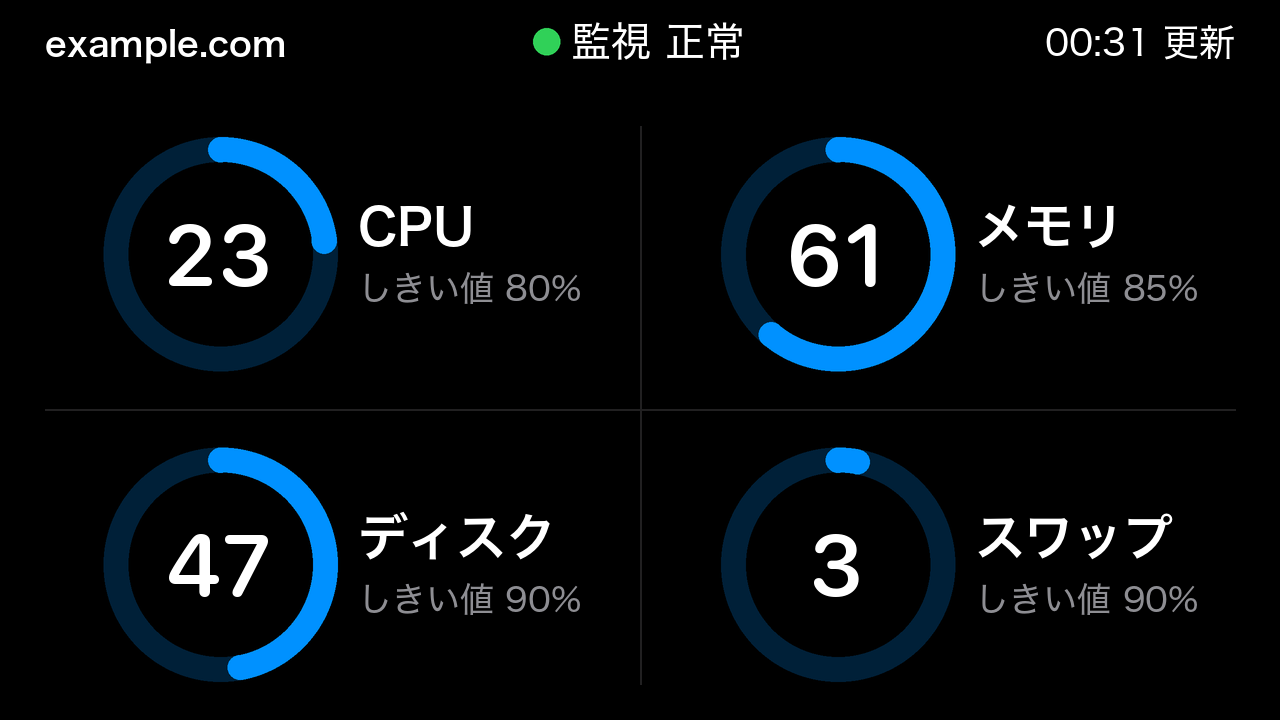
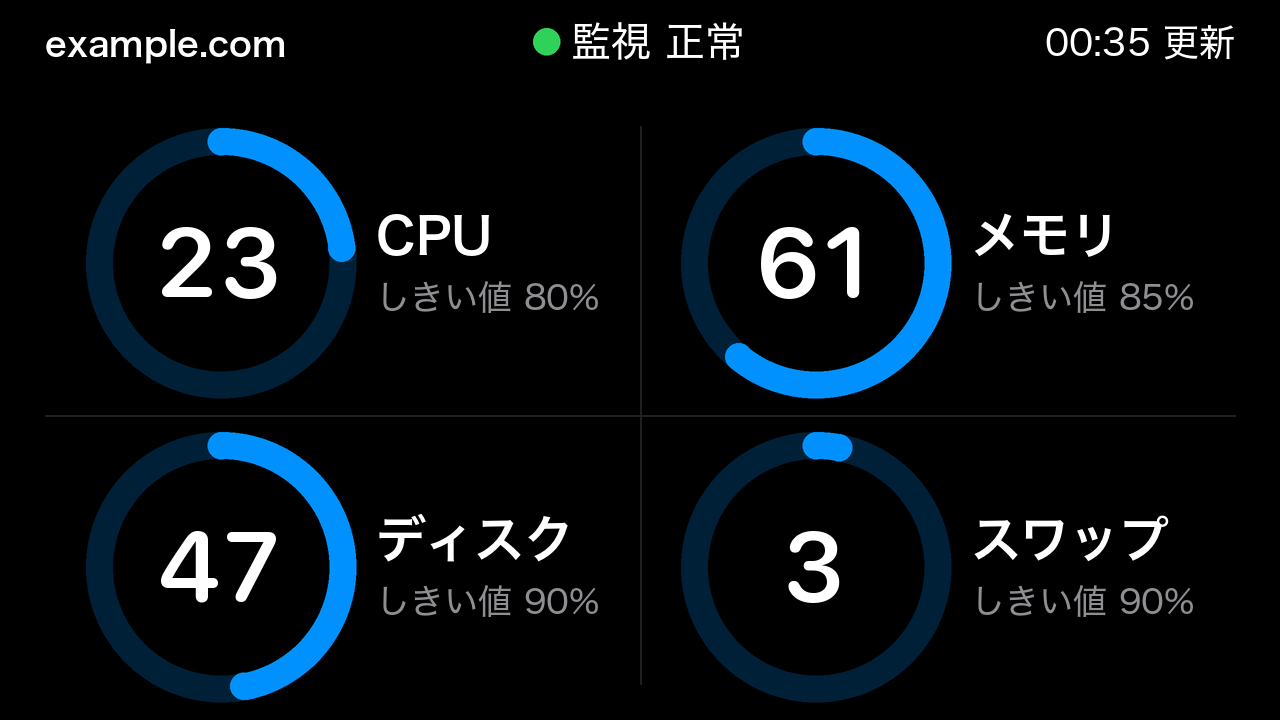
feat(monitor): 5.2 インチのリングを半径 52→60（外径 234→270 px）にし、数字も大きくする
縦に収まる最大の大きさ（上の段は異常の 2 行の帯の下、下の段は画面の内側）。上下の段と横の区切り線を少し動かし、
リングと文字のまとまりを左右の区画の中央に置き直した（ユーザーが見本の案 B を選んだ。docs/handover.md §4-25）。

Changed region(s): [[0.0312, 0.1528, 0.9688, 0.9778], [0.6875, 0.7028, 0.9375, 0.8556], [0.875, 0.0306, 0.9062, 0.0917]]

diff --git a/claude_usage_display/monitor_screen.py b/claude_usage_display/monitor_screen.py
@@ -96,14 +96,23 @@ PORTRAIT = _Layout(
 
 # 5.2 インチ（1280×720）。横置きの 2×2 を、高さの比 2.25 倍で描く（2026-11-02 にユーザーが見本で選んだ「案 1」を、
 # 2026-11-03 に入れた。docs/handover.md §4-23・§4-25）。3.5 インチの寸法での横幅は 1280 ÷ 2.25 ≒ 569 になるので、
-# 区切り線を中央に置き、区画の中身を 20 右へ寄せて左右の余白をそろえる。帯は横置きと同じ幅 248 で中央に置く
+# 区切り線を中央に置く。帯は横置きと同じ幅 248 で中央に置く。
+# リングは、実機を見たユーザーの指示で半径 52→60（外径 234→270 px）、数字を 38→44 にした（同日、見本の案 B）。
+# 縦に収まる最大の大きさで、上の段のリングの上端 57 は異常の 2 行の帯の下端（BIG_BOX、54）の下、下の段の下端 312 は
+# 画面（320）の内側。そのため上下の段を 48・183 に、横の区切り線を 184.5 に動かした。リングと文字のまとまり
+# （リング 120・間 9・15 ピクセルの「しきい値 80%」99）は、左右の区画の中央に置く
 _K_LARGE = 720 / 320
 _W_LARGE = 1280 / _K_LARGE
 _MID_LARGE = 20 + (_W_LARGE - 40) / 2
+_RING_LARGE = 60
+_TEXT_LARGE = 2 * _RING_LARGE + 9  # 名前としきい値の左端（区画の左から）
+_LEFT_LARGE = ((_MID_LARGE - 20) - (_TEXT_LARGE + 99)) / 2  # 区画の中で、まとまりを中央に置くための左の余白
 LANDSCAPE_LARGE = replace(
     LANDSCAPE, size=(_W_LARGE, 320), k=_K_LARGE, pill=(round(_W_LARGE / 2 - 124), 4, round(_W_LARGE / 2 + 124), 34),
-    cells=((40, 44), (_MID_LARGE + 30, 44), (40, 182), (_MID_LARGE + 30, 182)),
-    dividers=((_MID_LARGE, 56, _MID_LARGE, 304), (20, 182, _W_LARGE - 20, 182)))
+    cells=((20 + _LEFT_LARGE, 48), (_MID_LARGE + _LEFT_LARGE, 48), (20 + _LEFT_LARGE, 183),
+           (_MID_LARGE + _LEFT_LARGE, 183)),
+    ring=(_RING_LARGE, 69, _RING_LARGE, 12), label=(_TEXT_LARGE, 65, "ls", 22), number=(_RING_LARGE, 84, 44, 0, True),
+    threshold=(_TEXT_LARGE, 90, "ls", 15), dividers=((_MID_LARGE, 56, _MID_LARGE, 304), (20, 184.5, _W_LARGE - 20, 184.5)))
 
 
 def layout_for(size: tuple[int, int], portrait: bool = False) -> _Layout:

diff --git a/tests/test_monitor_screen.py b/tests/test_monitor_screen.py
@@ -88,6 +88,16 @@ class MonitorScreenTest(unittest.TestCase):
         self.assertLess(large.cells[0][0] + threshold_x + width, divider)
         self.assertLess(large.cells[1][0] + threshold_x + width, large.size[0] - large.inset)
         self.assertGreater(large.cells[1][0] + large.ring[0] - large.ring[2], divider)  # 右の列のリングは区切り線の右
+        # 同日、リングを半径 52→60 にした（ユーザーの指示）。上の段は異常の 2 行の帯の下、下の段は画面の内側に収まる
+        _, cy, radius, _ = large.ring
+        self.assertEqual(radius, 60)
+        self.assertGreaterEqual(large.cells[0][1] + cy - radius, ms.BIG_BOX[2][1] + 3)
+        self.assertLessEqual(large.cells[2][1] + cy + radius, 320 - 8)
+        line = large.dividers[1][1]
+        self.assertLess(large.cells[0][1] + cy + radius, line)  # 上の段のリングは横の区切り線の上
+        self.assertGreater(large.cells[2][1] + cy - radius, line)  # 下の段のリングは横の区切り線の下
+        number = ms.rounded(large.number[2]).getlength("100")
+        self.assertLess(number, 2 * (radius - large.ring[3]) - 6)  # 「100」もリングの内側に収まる
 
     def test_landscape_long_labels_fit_their_cells(self):
         # 2026-10-27 に名前を 18→22 ピクセルにした。左の列の名前は区切り線の手前、右の列の名前は

diff --git a/docs/handover.md b/docs/handover.md
@@ -488,6 +488,7 @@ scripts/uninstall-launch-agent.sh                                 # 自動起動
 - **経緯**: ユーザーが「（サービス名）・claude・mac mini の 3 つを表示させてるけど一番大切なのは（サービス名）のモニターだよね？」と聞いた（サービス名はここに書かない）。止まったときに困る人（サービスの利用者と会社か、自分の作業だけか）と、ほかに気づく手段（監視の通知・Claude Code の表示・使っていて分かる）で比べ、サーバーの状態が最も大切と答えた。その画面がいちばん小さい 3.5 インチにあるので、Ultra の 5 時間の制限が外れるのを待たずに入れ替えるかを聞き、ユーザーが「いま入れ替える」を選んだ（見本は、5.2 インチのサーバーの状態の案 1 と、`pace` を 3.5 インチの大きさにしたもの）
 - **入れたこと**: `monitor_screen.LANDSCAPE_LARGE`（§4-23 の案 1 と同じ値）と `monitor_screen.layout_for`。`monitor` の常駐は、開いたディスプレイが 1280×720 ならこの配置で描く。`monitor --preview --device 5.2` もこの大きさで描く。`monitor --device 5.2 --portrait` は引数の解析で止める（縦置きの配置は 3.5 インチだけ）。テストは `test_large_layout_is_the_landscape_scaled_to_the_52_inch_display`・`test_draws_the_large_layout_on_the_52_inch_display`・`test_portrait_is_only_for_the_35_inch_display`。README に見本（`docs/images/monitor-1280x720.png`、架空の設定）を足した
 - **登録**: 5.2 インチは `scripts/install-launch-agent.sh --monitor --device 5.2 --brightness 40`（明るさは、それまでの 5.2 インチと同じ）。3.5 インチの 1 台目は `scripts/install-launch-agent.sh --device 3.5 --location 0x00120000 --brightness 25 --icons "$HOME/Library/Application Support/claude-usage-display/icons" --theme pace`（明るさは、それまでのこの 3.5 インチと同じ）。2 台目（この Mac の状態）は変えていない
+- **リングを大きくした**（同日、ユーザーの指示「5 インチのサークルもう少し大きくできる？」）。リングの大きさの上限は縦で決まる（上の段は異常の 2 行の帯の下端 54 の下、下の段は画面の下端 320 の手前）。半径 56（外径 252 px）と 60（270 px）の見本を描き、ユーザーが 60（推奨）を選んだ。数字は 38→44（86→99 px）、リングの太さ 11→12。上下の段を 44・182 → 48・183、横の区切り線を 182 → 184.5 に動かし、リングと文字のまとまりを左右の区画の中央に置き直した。上の段のリングの上端は 57（2 行の帯との間は 5.2 インチで約 7 px）、下の段の下端は 312（下の余白 18 px）。入れた配置が見本と 1 ピクセルも違わないことを確かめた
 
 ## 5. 残っている作業（上から順に）
 
